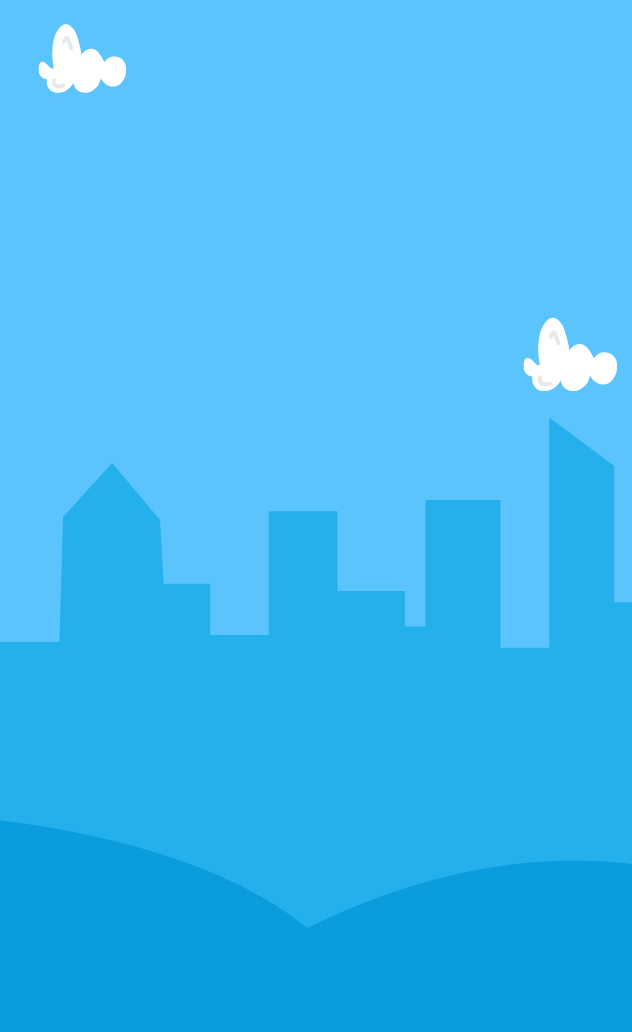
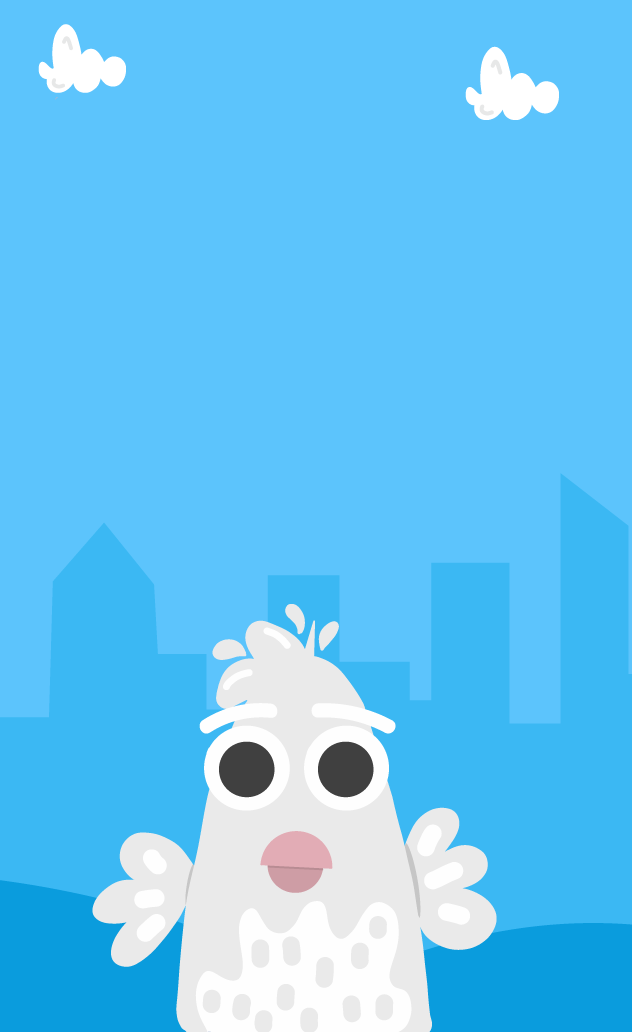
updated slider

Changed region(s): [[0.0, 0.3101, 1.0, 1.0], [0.7215, 0.031, 0.9019, 0.124]]

diff --git a/MyPrototype/src/pages/intro/intro.scss b/MyPrototype/src/pages/intro/intro.scss
@@ -10,13 +10,15 @@
   }
 
   .slide-title {
-    margin-top: 3rem;
+    margin-top: 10px;
+    
   }
 
   .slide-image {
-    max-height: 70%;
-    max-width: 60%;
-    margin: 18px 0;
+    max-height: 30%;
+    max-width: 30%;
+    margin: 5px 0;
+  
   }
 
   b {
@@ -44,6 +46,7 @@ background-size: cover;
 
 
 .buttonintro{
+  margin-top: 10px;
   border-radius: 50px;
   padding: 30px 80px;
   font-family: Marker;

diff --git a/MyPrototype/src/pages/home/home.html b/MyPrototype/src/pages/home/home.html
@@ -25,7 +25,7 @@
 
   <ion-card (click)="goMonster()">
     <img src="../assets/imgs/home-monster.png"/>
-    <div><h2 class="card-title-home">City<br> Monsters</h2></div>
+    <div><h2 class="card-title-home">City Monsters</h2></div>
     <div><p class="card-subtitle-time">Duration: 60min</p></div>
     <div><p class="card-subtitle-dis">Distance to: .8km</p></div>
   </ion-card>
